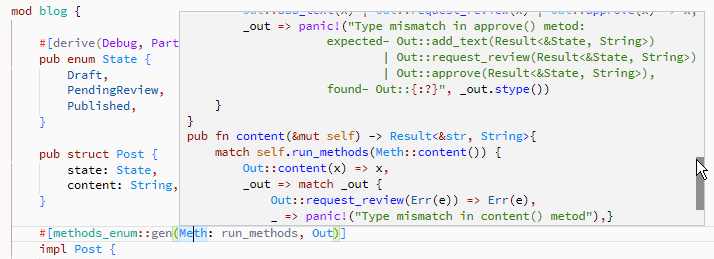
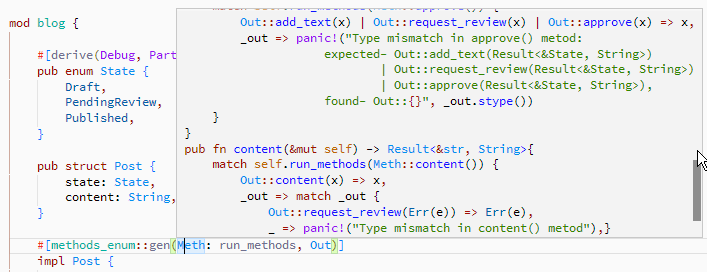
Fixed panic message format

diff --git a/src/lib.rs b/src/lib.rs
@@ -310,7 +310,7 @@ pub fn gen(attr_ts: TokenStream, item_ts: TokenStream) -> TokenStream {
                     let panic_s = format!(
                         "panic!(\"Type mismatch in {ident}() metod:
                     expected- {},
-                    found- {out_enum}{{:?}}\", {varname}.stype())",
+                    found- {out_enum}{{}}\", {varname}.stype())",
                         lside
                             .replace("(x)", &format!("({out})"))
                             .replace(" | ", "\n                            | ")
